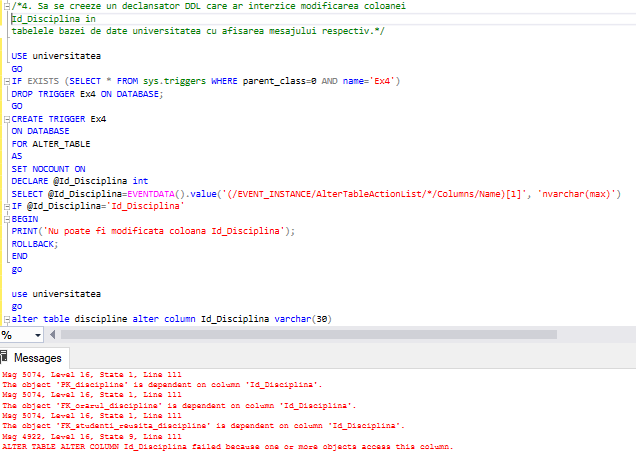
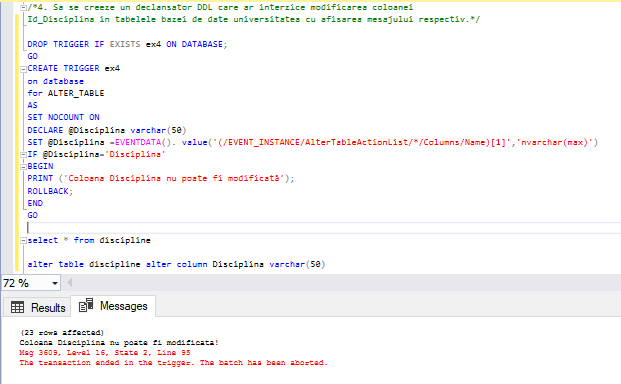
update lab10.md and readme.md

Changed region(s): [[0.0, 0.0, 1.0, 1.0]]

diff --git a/Laboratory 10/lab10.md b/Laboratory 10/lab10.md
@@ -109,28 +109,23 @@ tabelele bazei de date universitatea cu afisarea mesajului respectiv.
 
 Interogarea:
 ``` sql
-USE universitatea
+DROP TRIGGER IF EXISTS ex4 ON DATABASE;  
 GO
-IF EXISTS (SELECT * FROM sys.triggers WHERE parent_class=0 AND name='Ex4')
-DROP TRIGGER Ex4 ON DATABASE;
-GO
-CREATE TRIGGER Ex4
-ON DATABASE
-FOR ALTER_TABLE
+CREATE TRIGGER ex4
+on database
+for ALTER_TABLE
 AS
 SET NOCOUNT ON
-DECLARE @Id_Disciplina int
-SELECT @Id_Disciplina=EVENTDATA().value('(/EVENT_INSTANCE/AlterTableActionList/*/Columns/Name)[1]', 'nvarchar(max)')
-IF @Id_Disciplina='Id_Disciplina'
+DECLARE @Disciplina varchar(50)
+SET @Disciplina =EVENTDATA(). value('(/EVENT_INSTANCE/AlterTableActionList/*/Columns/Name)[1]','nvarchar(max)')
+IF @Disciplina='Disciplina'
 BEGIN
-PRINT('Nu poate fi modificata coloana Id_Disciplina');
+PRINT ('Coloana Disciplina nu poate fi modificata');
 ROLLBACK;
 END
-go
+GO
 
-use universitatea
-go 
-alter table discipline alter column Id_Disciplina varchar(30)
+alter table discipline alter column Disciplina varchar(50)
 ```
 
 Rezultat:
@@ -193,24 +188,23 @@ CREATE TRIGGER Ex_6 ON DATABASE
 FOR ALTER_TABLE
 AS
 SET NOCOUNT ON
-DECLARE @id int
+DECLARE @nume varchar(50)
 DECLARE @int_I varchar(500)
 DECLARE @int_M varchar(500)
 DECLARE @den_T varchar(50)
-SELECT @id=EVENTDATA().
+SELECT @nume=EVENTDATA().
 value('(/EVENT_INSTANCE/AlterTableActionList/*/Columns/Name)[1]','nvarchar(max)')
-IF @id = 'Id_Profesor'
+IF @nume = 'Nume_Profesor'
 BEGIN
 SELECT @int_I = EVENTDATA().value('(/EVENT_INSTANCE/TSQLCommand/CommandText)[1]','nvarchar(max)')
 SELECT @den_T = EVENTDATA().value('(/EVENT_INSTANCE/ObjectName)[1]','nvarchar(max)')
-SELECT @int_M = REPLACE(@int_I, @den_T, 'studenti_reusita');EXECUTE (@int_M)
-SELECT @int_M = REPLACE(@int_I, @den_T, 'grupe');EXECUTE (@int_M)
+SELECT @int_M = REPLACE(@int_I, @den_T, 'profesori');EXECUTE (@int_M)
 PRINT 'Datele au fost modificate'
 END
 go
 
 use universitatea
-alter table profesori alter column Id_Profesor smallint
+alter table profesori alter column Nume_Profesor varchar(50)
 ```
 
 Rezultat:

diff --git a/README.md b/README.md
@@ -49,6 +49,17 @@ Link: [Laboratory 7](https://github.com/verasv81/DataBase/blob/master/Laboratory
 
 Link: [Laboratory 8](https://github.com/verasv81/DataBase/blob/master/Laboratory%208/lab8.md)
 
+
 ## Laboratory 9
 
 Link: [Laboratory 9](https://github.com/verasv81/DataBase/blob/master/Laboratory%209/lab9.md)
+
+
+## Laboratory 10
+
+Link: [Laboratory 10](https://github.com/verasv81/DataBase/blob/master/Laboratory%2010/lab10.md)
+
+
+## Laboratory 11
+
+Link: [Laboratory 11](https://github.com/verasv81/DataBase/blob/master/Laboratory%2011/lab11.md)
